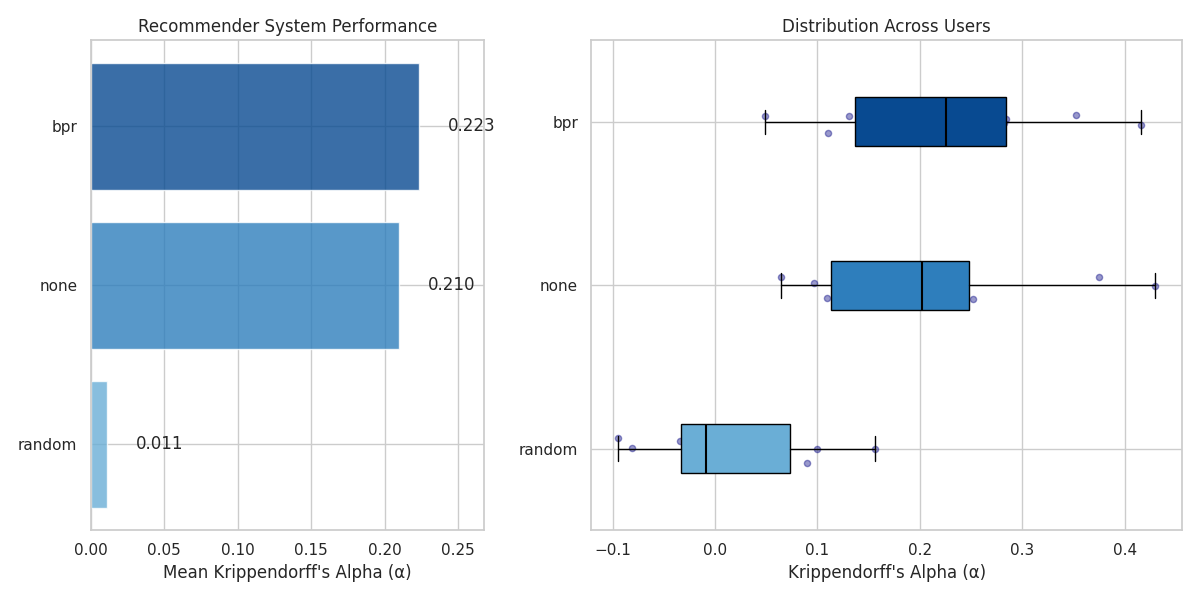
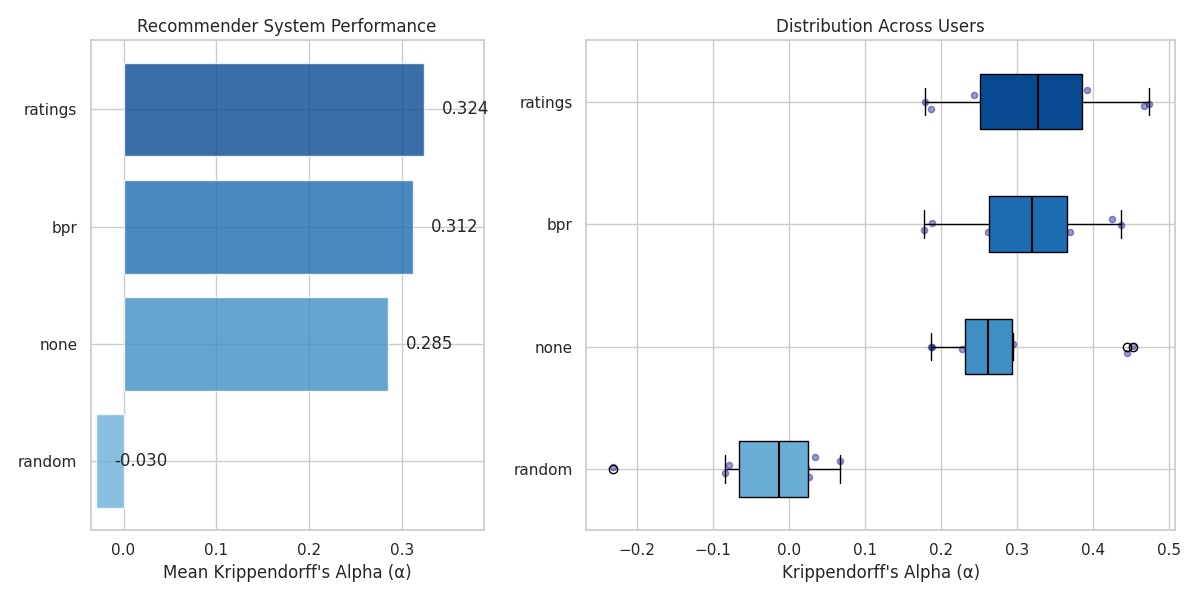
10 users, fix eval metrix

diff --git a/get_reconstructed_questionnaire.py b/get_reconstructed_questionnaire.py
@@ -36,7 +36,7 @@ def create_questionnaire_prompt(instructions: str, query: str, ratings_string: s
     prompt = f"""
     Instructions: {instructions}
 
-    Recipe ratings of this user: {ratings_string}
+    Recipe ratings of this user: {ratings_string if ratings_string else '[None]'}
     
     Recommended recipes for this user (he/she might like): {recommendations_string if recommendations_string else '[None]'}
 
@@ -178,21 +178,22 @@ def questionnaires_to_dataframe(uuids: list,
 
 def process_user_questionnaire(uuid, ratings_df, recommendations_df, instructions, query):
     """Process a single user's questionnaire and return the result"""
-    rated_item_titles = ratings_df[ratings_df['uuid'] == uuid]['item_title']
-    rated_item_ingredients = ratings_df[ratings_df['uuid'] == uuid]['item_ingredients']
-    ratings = ratings_df[ratings_df['uuid'] == uuid]['rating']
-
-    # Transform rating range from -2,2 to 1,9
-    ratings = (ratings * 2) + 5  # 5 is avg rating of 1-9
 
     # Resulting format: "{title: 'a', ingredients: 'b', rating: 'c'}, {title: 'd', ...}, ..."
     ratings_string = ""
-    for i in range(len(rated_item_titles)):
-        ratings_string += "{"
-        ratings_string += f"title: '{rated_item_titles.iloc[i]}', "
-        ratings_string += f"ingredients: '{rated_item_ingredients.iloc[i]}', "
-        ratings_string += f"rating: '{ratings.iloc[i]}'"
-        ratings_string += "}, "
+    if ratings_df is not None:
+        rated_item_titles = ratings_df[ratings_df['uuid'] == uuid]['item_title']
+        rated_item_ingredients = ratings_df[ratings_df['uuid'] == uuid]['item_ingredients']
+        ratings = ratings_df[ratings_df['uuid'] == uuid]['rating']
+        # Transform rating range from -2,2 to 1,9
+        ratings = (ratings * 2) + 5  # 5 is avg rating of 1-9
+
+        for i in range(len(rated_item_titles)):
+            ratings_string += "{"
+            ratings_string += f"title: '{rated_item_titles.iloc[i]}', "
+            ratings_string += f"ingredients: '{rated_item_ingredients.iloc[i]}', "
+            ratings_string += f"rating: '{ratings.iloc[i]}'"
+            ratings_string += "}, "
 
     recommendations_string = ""
     if recommendations_df is not None:
@@ -266,10 +267,11 @@ if __name__ == "__main__":
     uuids = ratings_df['uuid'].unique()
 
     recommendations_dfs = [
-        ("none", ""),   # ratings only, no recommender algorithm
-        ("random", "")  # fully random questionnaire (serves as baseline)
+        ("none", ""),       # no ratings or recommendations
+        ("ratings", ""),    # ratings only, no recommendations
+        ("random", "")      # fully random questionnaire (serves as baseline)
     ]
-    recommendations_dfs += find_recommendation_files("data")
+    recommendations_dfs += find_recommendation_files("data") # ratings + recommendations
 
     # Create a partial function with the common parameters
     for recommender_algorithm, recommender_df_path in recommendations_dfs:
@@ -287,11 +289,10 @@ if __name__ == "__main__":
                 # Instantiate the model with these random values
                 results[uuid] = FoodAndActivityQuestionnaire(**random_values)
             questionnaires_reconstructed_results = [results[uuid] for uuid in uuids]
-
         else:
             process_func = partial(
                 process_user_questionnaire,
-                ratings_df=ratings_df,
+                ratings_df=None if recommender_algorithm == "none" else ratings_df,
                 recommendations_df=recommendations_df,
                 instructions=remove_breaks(instructions),
                 query=query

diff --git a/eval_questionnaire_similarity.py b/eval_questionnaire_similarity.py
@@ -40,15 +40,13 @@ def calculate_krippendorff_metrics(original_df, reconstructed_files):
         for i, row in original_df.iterrows():
             # Prepare vectors
             original = row.drop('uuid').values
-            original = np.where(original > 9, 5, original)  # Handle values > 9
-            reconstructed = recon_df.iloc[i].drop('uuid').values
+            original = np.where(original > 9, 5, original)  # Handle values > 9 as neutral
 
-            # Normalize vectors
-            original_norm = normalize(original)
-            reconstructed_norm = normalize(reconstructed)
+            reconstructed = recon_df.iloc[i].drop('uuid').values
+            reconstructed = np.where(reconstructed > 9, 5, reconstructed)  # Handle values > 9 as neutral
 
             # Calculate Krippendorff's alpha
-            reliability_data = np.array([original_norm, reconstructed_norm], dtype=float)
+            reliability_data = np.array([original, reconstructed], dtype=float)
             alpha = krippendorff.alpha(reliability_data, level_of_measurement='interval')
             kripp_values.append(alpha)
 
